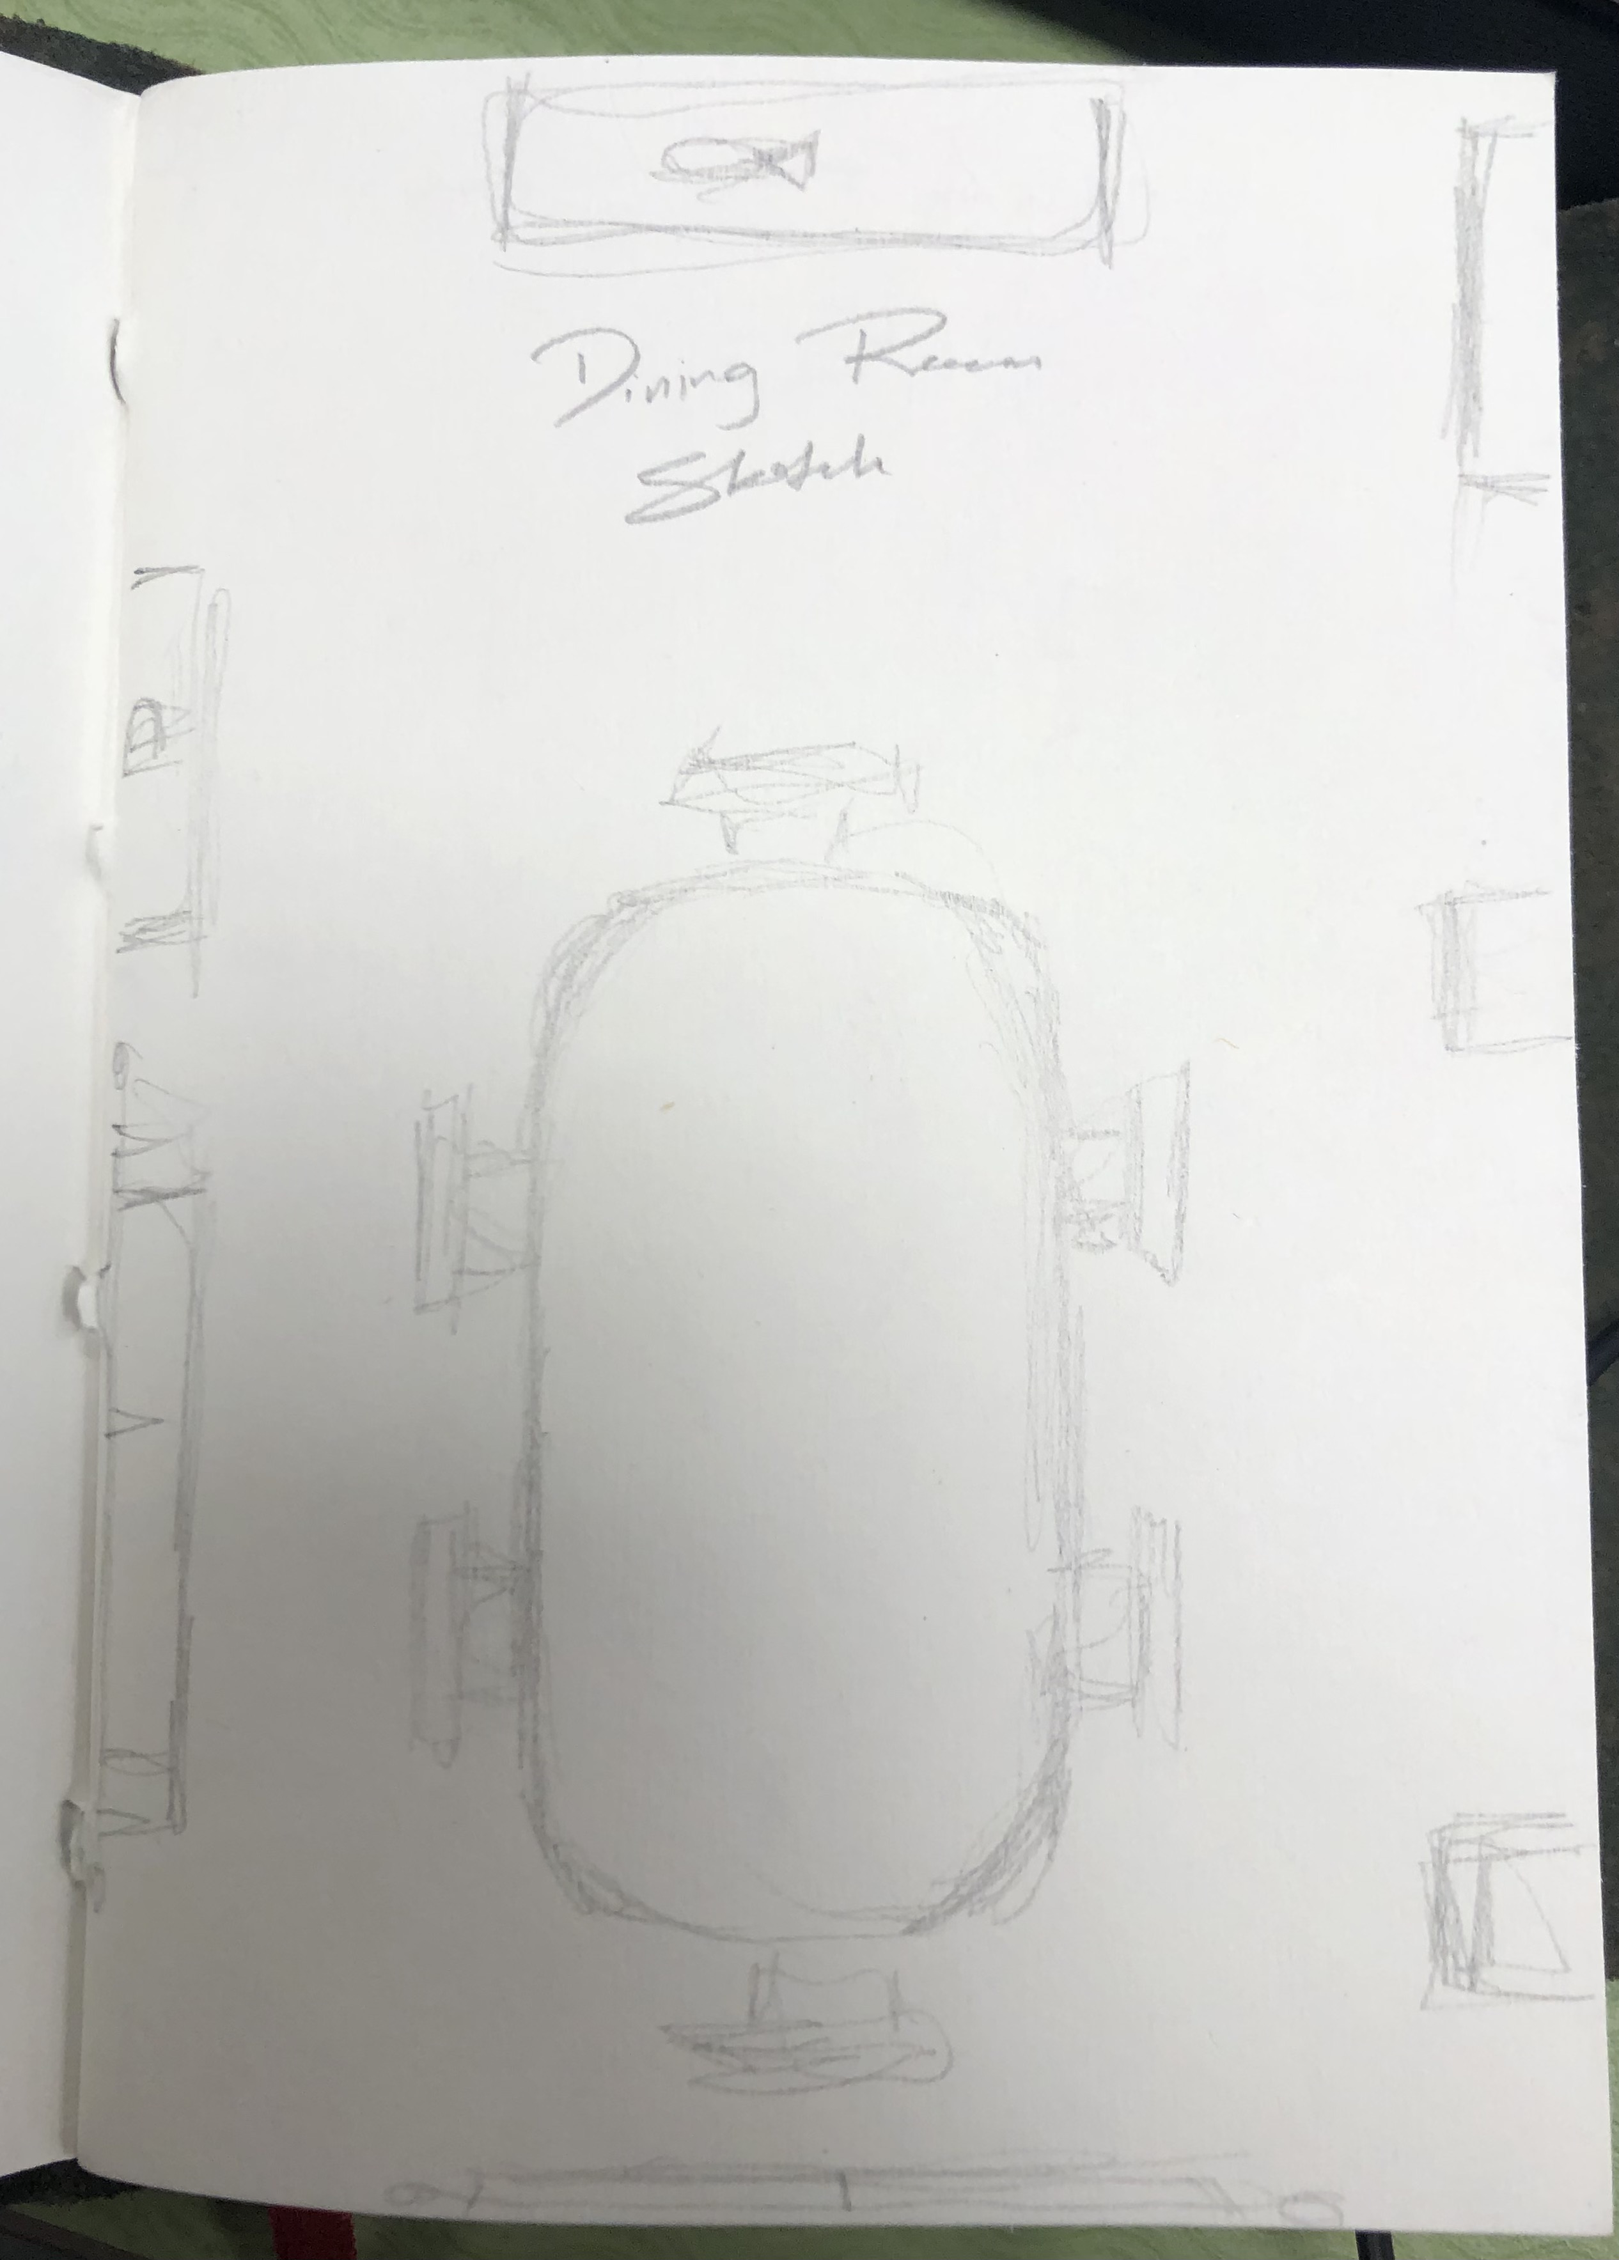
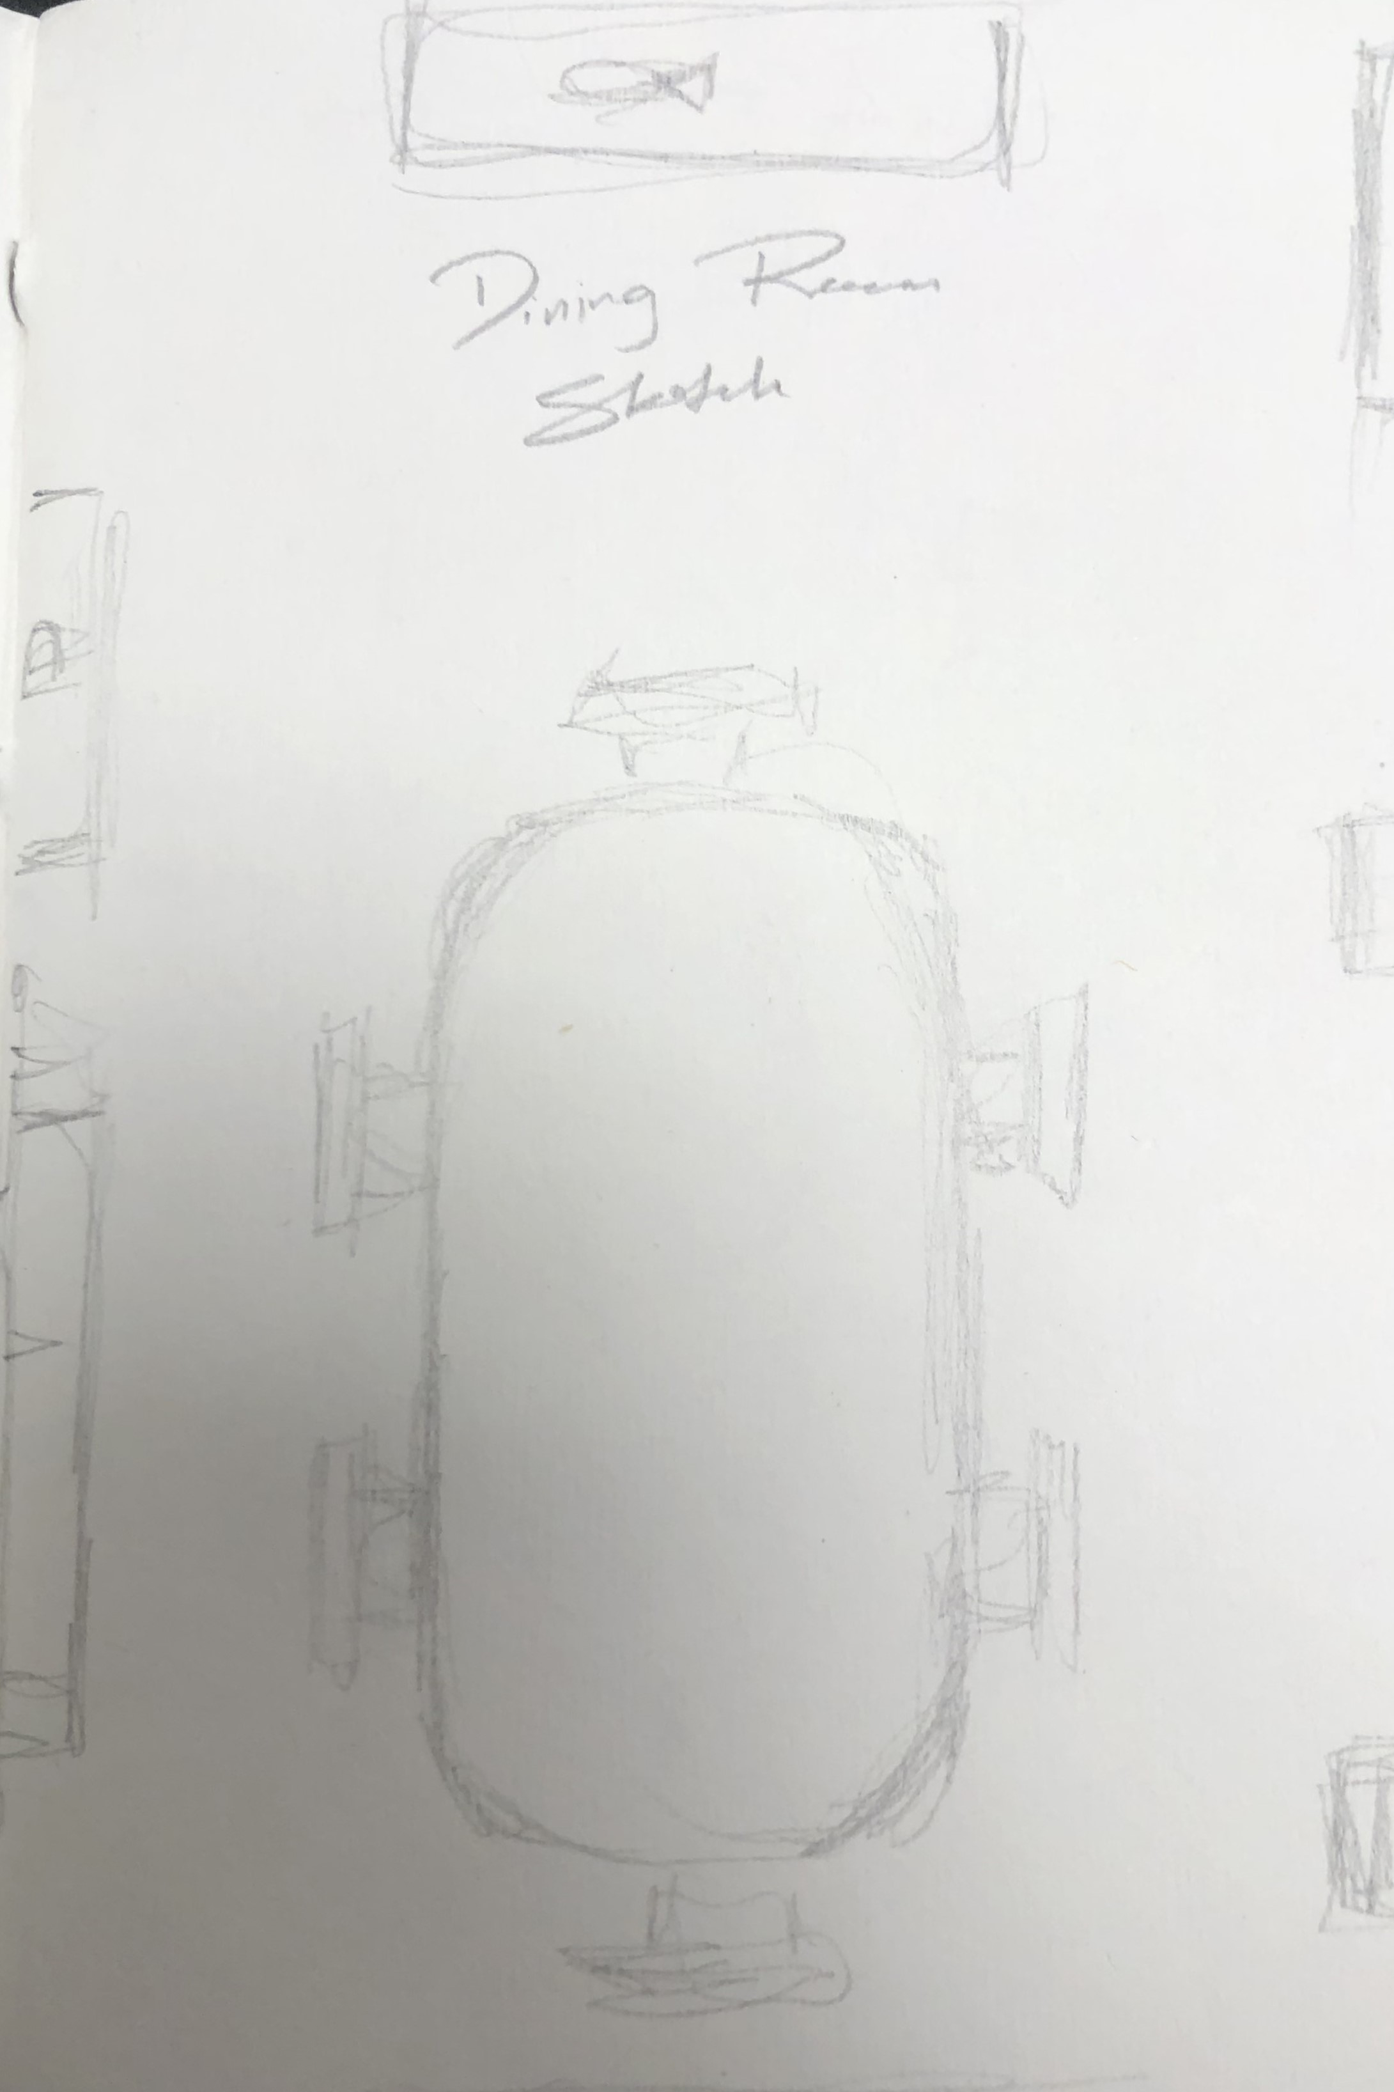
adjust all images to fit better

diff --git a/usarmypmi.html b/usarmypmi.html
@@ -56,7 +56,7 @@
 								<div class="box alt">
 									<div class="row gtr-50 gtr-uniform">
 										<div class="col-6"><span class="image fit"><img src="images/usarmypmi_1.png" alt="" /></span></div>
-										<div class="col-6"><span class="image fit"><img height="350px" src="images/usarmypmi_2.png" alt="" /></span></div>
+										<div class="col-6"><span class="image fit"><img src="images/usarmypmi_2.png" alt="" /></span></div>
 									</div>
 								</div>
 								<p>After that, we worked on a variety of features that they wanted available, while also maintaining weekly communication with our sponsor in the form of online meetings. Those features included a simplified design, an adjustable time frame, the flexibility of PMI events, changing phase lane names, adding phase lanes, displaying PMI event information, and beginning a page for non-working days.</p>

diff --git a/artwork.html b/artwork.html
@@ -89,7 +89,7 @@
 									<header>
 										<h2><a href="lifeofapennyart.html">Art Director: Life of A Penny</a></h2>
 									</header>
-									<a href="lifeofapennyart.html" class="image fit"><img height="300px" src="images/lifeofapennytitle.png" alt="" /></a>
+									<a href="lifeofapennyart.html" class="image fit"><img src="images/lifeofapennytitle.png" alt="" /></a>
 									<p>A 2D platform game where you roll through the couch you've been lost in playing as a penny trying to get back to the pocket that dropped you.</p>
 									<ul class="actions special">
 										<li><a href="lifeofapennyart.html" class="button">See More</a></li>

diff --git a/environment.html b/environment.html
@@ -110,7 +110,7 @@
 								<div class="box alt">
 									<div class="row gtr-50 gtr-uniform">
 										<div class="col-6"><span class="image fit"><img src="images/environment_6.png" alt="" /></span></div>
-										<div class="col-6"><span class="image fit"><img height="360px" src="images/environment_7.png" alt="" /></span></div>
+										<div class="col-6"><span class="image fit"><img src="images/environment_7.png" alt="" /></span></div>
 									</div>
 								</div>
 								<hr />

diff --git a/minionchar.html b/minionchar.html
@@ -58,7 +58,7 @@
 								<div class="box alt">
 									<div class="row gtr-50 gtr-uniform">
 										<div class="col-6"><span class="image fit"><img src="images/minionchar_3.png" alt="" /></span></div>
-										<div class="col-6"><span class="image fit"><img height="365px" src="images/minionchar_4.png" alt="" /></span></div>
+										<div class="col-6"><span class="image fit"><img src="images/minionchar_4.png" alt="" /></span></div>
 									</div>
 								</div>
 								<hr />
